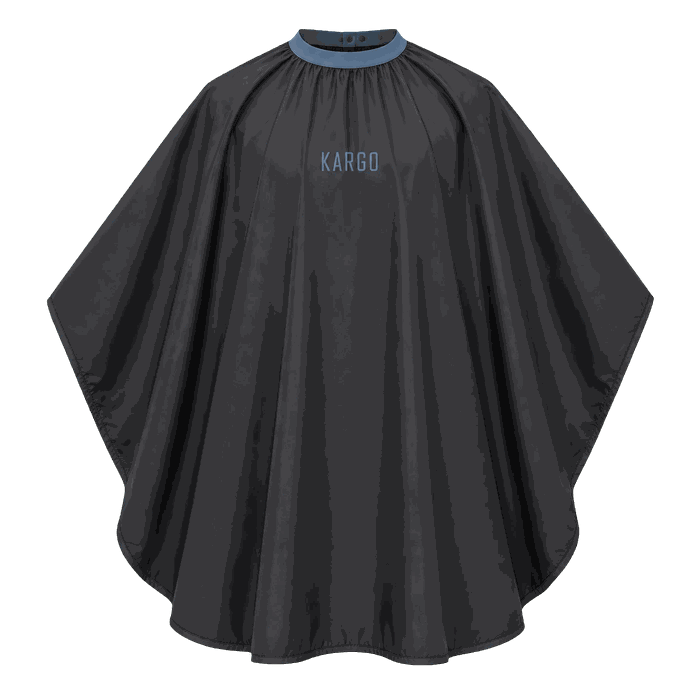
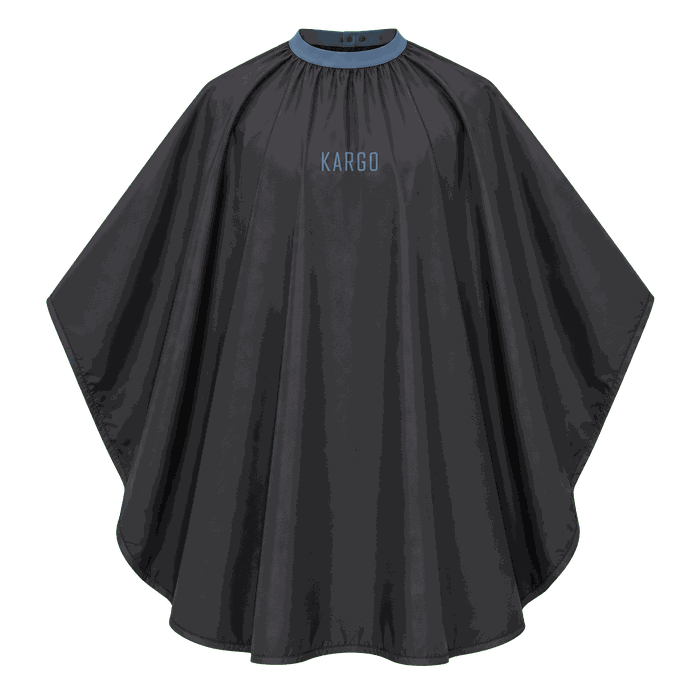
Fill every product card, and stand the process ruler up on phones
Products: all 23 catalogue slots now carry a photo, so no entry keeps the
"Photo to come" plate. The shots arrived on green and magenta backdrops; the
key colour is sampled from the corners rather than assumed, so both are cut
out by the same path, and despill is confined to the partially transparent
edge band so the products' own colours are untouched. Each is resized to
700px and compressed to between 22KB and 77KB, all inside the 100KB budget.

Process section: the horizontal ruler broke into a 2x3 grid on phones, which
left five disconnected stubs and stranded Delivery on its own row - the
sequence stopped reading as a sequence. Below 640px the same ruler now turns
90 degrees and runs down the left edge, each stop reaching out to a numbered
label on one line. Steps are numbered 01-05 at every width, since nothing
previously signalled that the five were ordered. The inline styles moved to
classes so the breakpoint can override them. Desktop is unchanged.

Claude-Session: https://claude.ai/code/session_01Hhv42MD7APEumU2y478RKx

diff --git a/site/index.html b/site/index.html
@@ -23,6 +23,92 @@ a { color: var(--color-accent-700); text-decoration: none; }
 a:hover { color: var(--color-accent); }
 .btn-primary, .btn-primary:hover, .btn-primary:active,
 .nav a.btn-primary, .nav a.btn-primary:hover { color: var(--color-bg); }
+
+/* How we work — a drafting ruler marking five stops.
+   Wide: the ruler lies horizontally, one column per step.
+   Narrow: the same ruler stands up and runs down the left edge, so the
+   sequence still reads as one continuous measure instead of breaking into
+   disconnected stubs across a two-column grid. */
+.process-steps {
+  display: grid;
+  grid-template-columns: repeat(auto-fit, minmax(132px, 1fr));
+  gap: calc(1.5 * var(--leading)) 0;
+  margin-top: calc(3 * var(--leading));
+}
+.process-step { position: relative; }
+.process-num {
+  display: block;
+  font-family: var(--font-heading);
+  font-weight: 600;
+  font-size: 12px;
+  letter-spacing: 0.14em;
+  color: var(--color-accent);
+  margin-bottom: 2px;
+  font-variant-numeric: tabular-nums;
+}
+.process-name {
+  display: block;
+  font-family: var(--font-heading);
+  font-weight: 600;
+  font-size: clamp(17px, 1.9vw, 23px);
+  line-height: var(--leading);
+  letter-spacing: 0.035em;
+  text-transform: uppercase;
+  padding-right: var(--space-6);
+}
+.process-stop { width: 1px; height: 18px; margin-top: 8px; background: var(--color-accent); }
+.process-rule {
+  height: 15px;
+  border-top: 1px solid var(--color-text);
+  background-image:
+    linear-gradient(to right, var(--color-text) 0 1px, transparent 1px),
+    repeating-linear-gradient(to right, color-mix(in srgb, var(--color-text) 20%, transparent) 0 1px, transparent 1px 9px);
+  background-size: 100% 15px, 100% 5px;
+  background-repeat: no-repeat;
+}
+
+@media (max-width: 640px) {
+  .process-steps {
+    grid-template-columns: 1fr;
+    gap: 0;
+    margin-top: calc(1.5 * var(--leading));
+  }
+  /* Each step becomes a row: the ruler is a vertical spine on the left,
+     its tick reaching out to the number and label on one line. */
+  .process-step {
+    display: grid;
+    grid-template-columns: 15px 14px auto 1fr;
+    align-items: start;
+    column-gap: 10px;
+    min-height: 48px;
+  }
+  .process-step:last-child { min-height: 0; }
+  /* The spine: same tick pattern, turned through 90 degrees. */
+  .process-rule {
+    grid-column: 1;
+    grid-row: 1;
+    width: 15px;
+    height: 100%;
+    min-height: 48px;
+    border-top: 0;
+    border-left: 1px solid var(--color-text);
+    background-image:
+      linear-gradient(to bottom, var(--color-text) 0 1px, transparent 1px),
+      repeating-linear-gradient(to bottom, color-mix(in srgb, var(--color-text) 20%, transparent) 0 1px, transparent 1px 9px);
+    background-size: 15px 100%, 5px 100%;
+  }
+  .process-step:last-child .process-rule { min-height: 20px; height: 20px; }
+  /* The stop turns into the horizontal tick that points at the label. */
+  .process-stop {
+    grid-column: 2;
+    grid-row: 1;
+    width: 14px;
+    height: 1px;
+    margin-top: 9px;
+  }
+  .process-num { grid-column: 3; grid-row: 1; margin-bottom: 0; padding-top: 4px; }
+  .process-name { grid-column: 4; grid-row: 1; padding-right: 0; }
+}
 </style>
 </helmet>
 
@@ -78,31 +164,36 @@ a:hover { color: var(--color-accent); }
 
     <section id="process" style="padding:0 0 calc(2.5 * var(--leading))">
       <span style="display:block;font-size:13px;line-height:var(--half);letter-spacing:0.08em;text-transform:uppercase;font-weight:600;color:var(--color-accent-700);margin:0 0 var(--half)">How we work</span>
-      <div style="display:grid;grid-template-columns:repeat(auto-fit,minmax(132px,1fr));gap:calc(1.5 * var(--leading)) 0;margin-top:calc(3 * var(--leading))">
-        <div>
-          <span style="display:block;font-family:var(--font-heading);font-weight:600;font-size:clamp(17px,1.9vw,23px);line-height:var(--leading);letter-spacing:0.035em;text-transform:uppercase;padding-right:var(--space-6)">Consultation</span>
-          <div style="width:1px;height:18px;margin-top:8px;background:var(--color-accent)"></div>
-          <div aria-hidden="true" style="height:15px;border-top:1px solid var(--color-text);background-image:linear-gradient(to right, var(--color-text) 0 1px, transparent 1px), repeating-linear-gradient(to right, color-mix(in srgb, var(--color-text) 20%, transparent) 0 1px, transparent 1px 9px);background-size:100% 15px, 100% 5px;background-repeat:no-repeat"></div>
+      <div class="process-steps">
+        <div class="process-step">
+          <span class="process-num">01</span>
+          <span class="process-name">Consultation</span>
+          <div class="process-stop"></div>
+          <div class="process-rule" aria-hidden="true"></div>
         </div>
-        <div>
-          <span style="display:block;font-family:var(--font-heading);font-weight:600;font-size:clamp(17px,1.9vw,23px);line-height:var(--leading);letter-spacing:0.035em;text-transform:uppercase;padding-right:var(--space-6)">Quotation</span>
-          <div style="width:1px;height:18px;margin-top:8px;background:var(--color-accent)"></div>
-          <div aria-hidden="true" style="height:15px;border-top:1px solid var(--color-text);background-image:linear-gradient(to right, var(--color-text) 0 1px, transparent 1px), repeating-linear-gradient(to right, color-mix(in srgb, var(--color-text) 20%, transparent) 0 1px, transparent 1px 9px);background-size:100% 15px, 100% 5px;background-repeat:no-repeat"></div>
+        <div class="process-step">
+          <span class="process-num">02</span>
+          <span class="process-name">Quotation</span>
+          <div class="process-stop"></div>
+          <div class="process-rule" aria-hidden="true"></div>
         </div>
-        <div>
-          <span style="display:block;font-family:var(--font-heading);font-weight:600;font-size:clamp(17px,1.9vw,23px);line-height:var(--leading);letter-spacing:0.035em;text-transform:uppercase;padding-right:var(--space-6)">Sample</span>
-          <div style="width:1px;height:18px;margin-top:8px;background:var(--color-accent)"></div>
-          <div aria-hidden="true" style="height:15px;border-top:1px solid var(--color-text);background-image:linear-gradient(to right, var(--color-text) 0 1px, transparent 1px), repeating-linear-gradient(to right, color-mix(in srgb, var(--color-text) 20%, transparent) 0 1px, transparent 1px 9px);background-size:100% 15px, 100% 5px;background-repeat:no-repeat"></div>
+        <div class="process-step">
+          <span class="process-num">03</span>
+          <span class="process-name">Sample</span>
+          <div class="process-stop"></div>
+          <div class="process-rule" aria-hidden="true"></div>
         </div>
-        <div>
-          <span style="display:block;font-family:var(--font-heading);font-weight:600;font-size:clamp(17px,1.9vw,23px);line-height:var(--leading);letter-spacing:0.035em;text-transform:uppercase;padding-right:var(--space-6)">Production</span>
-          <div style="width:1px;height:18px;margin-top:8px;background:var(--color-accent)"></div>
-          <div aria-hidden="true" style="height:15px;border-top:1px solid var(--color-text);background-image:linear-gradient(to right, var(--color-text) 0 1px, transparent 1px), repeating-linear-gradient(to right, color-mix(in srgb, var(--color-text) 20%, transparent) 0 1px, transparent 1px 9px);background-size:100% 15px, 100% 5px;background-repeat:no-repeat"></div>
+        <div class="process-step">
+          <span class="process-num">04</span>
+          <span class="process-name">Production</span>
+          <div class="process-stop"></div>
+          <div class="process-rule" aria-hidden="true"></div>
         </div>
-        <div>
-          <span style="display:block;font-family:var(--font-heading);font-weight:600;font-size:clamp(17px,1.9vw,23px);line-height:var(--leading);letter-spacing:0.035em;text-transform:uppercase;padding-right:var(--space-6)">Delivery</span>
-          <div style="width:1px;height:18px;margin-top:8px;background:var(--color-accent)"></div>
-          <div aria-hidden="true" style="height:15px;border-top:1px solid var(--color-text);background-image:linear-gradient(to right, var(--color-text) 0 1px, transparent 1px), repeating-linear-gradient(to right, color-mix(in srgb, var(--color-text) 20%, transparent) 0 1px, transparent 1px 9px);background-size:100% 15px, 100% 5px;background-repeat:no-repeat"></div>
+        <div class="process-step">
+          <span class="process-num">05</span>
+          <span class="process-name">Delivery</span>
+          <div class="process-stop"></div>
+          <div class="process-rule" aria-hidden="true"></div>
         </div>
       </div>
     </section>

diff --git a/site/products.html b/site/products.html
@@ -153,29 +153,29 @@ class Component extends DCLogic {
 
   catalogue = [
     // F&B — clothing first, largest garment down to smallest, then everything else
-    { key: 'fnb-set', cat: 'fnb', name: 'Full uniform sets', photo: null },
-    { key: 'fnb-trouser', cat: 'fnb', name: 'Trousers', photo: null },
-    { key: 'fnb-polo', cat: 'fnb', name: 'Polos', photo: null },
-    { key: 'fnb-tshirt', cat: 'fnb', name: 'T-shirts', photo: null },
+    { key: 'fnb-set', cat: 'fnb', name: 'Full uniform sets' },
+    { key: 'fnb-trouser', cat: 'fnb', name: 'Trousers' },
+    { key: 'fnb-polo', cat: 'fnb', name: 'Polos' },
+    { key: 'fnb-tshirt', cat: 'fnb', name: 'T-shirts' },
     { key: 'fnb-apron', cat: 'fnb', name: 'Aprons' },
-    { key: 'fnb-cap', cat: 'fnb', name: 'Caps', photo: null },
-    { key: 'fnb-nametag', cat: 'fnb', name: 'Name tags', photo: null },
+    { key: 'fnb-cap', cat: 'fnb', name: 'Caps' },
+    { key: 'fnb-nametag', cat: 'fnb', name: 'Name tags' },
     { key: 'fnb-deliverybox', cat: 'fnb', name: 'Delivery boxes' },
     { key: 'fnb-helmet', cat: 'fnb', name: 'Branded helmets' },
-    { key: 'fnb-bag', cat: 'fnb', name: 'Plastic bags', photo: null },
-    { key: 'fnb-boxes', cat: 'fnb', name: 'Takeaway boxes', photo: null },
-    { key: 'fnb-placemat', cat: 'fnb', name: 'Placemats', photo: null },
-    { key: 'fnb-wrap', cat: 'fnb', name: 'Sandwich wraps', photo: null },
-    { key: 'fnb-cup', cat: 'fnb', name: 'Paper cups', photo: null },
-    { key: 'fnb-napkin', cat: 'fnb', name: 'Napkins', photo: null },
-    { key: 'fnb-coaster', cat: 'fnb', name: 'Coasters', photo: null },
-    { key: 'fnb-sticker', cat: 'fnb', name: 'Stickers', photo: null },
+    { key: 'fnb-bag', cat: 'fnb', name: 'Plastic bags' },
+    { key: 'fnb-boxes', cat: 'fnb', name: 'Takeaway boxes' },
+    { key: 'fnb-placemat', cat: 'fnb', name: 'Placemats' },
+    { key: 'fnb-wrap', cat: 'fnb', name: 'Sandwich wraps' },
+    { key: 'fnb-cup', cat: 'fnb', name: 'Paper cups' },
+    { key: 'fnb-napkin', cat: 'fnb', name: 'Napkins' },
+    { key: 'fnb-coaster', cat: 'fnb', name: 'Coasters' },
+    { key: 'fnb-sticker', cat: 'fnb', name: 'Stickers' },
     // Beauty & wellness — same rule
-    { key: 'bh-set', cat: 'bh', name: 'Full set uniform', photo: null },
+    { key: 'bh-set', cat: 'bh', name: 'Full set uniform' },
     { key: 'bh-cape', cat: 'bh', name: 'Cutting capes' },
-    { key: 'bh-polo', cat: 'bh', name: 'Polos', photo: null },
-    { key: 'bh-apron', cat: 'bh', name: 'Aprons', photo: null },
-    { key: 'bh-towel', cat: 'bh', name: 'Towels', photo: null },
+    { key: 'bh-polo', cat: 'bh', name: 'Polos' },
+    { key: 'bh-apron', cat: 'bh', name: 'Aprons' },
+    { key: 'bh-towel', cat: 'bh', name: 'Towels' },
     { key: 'bh-spray', cat: 'bh', name: 'Spray bottles' }
   ];
 
